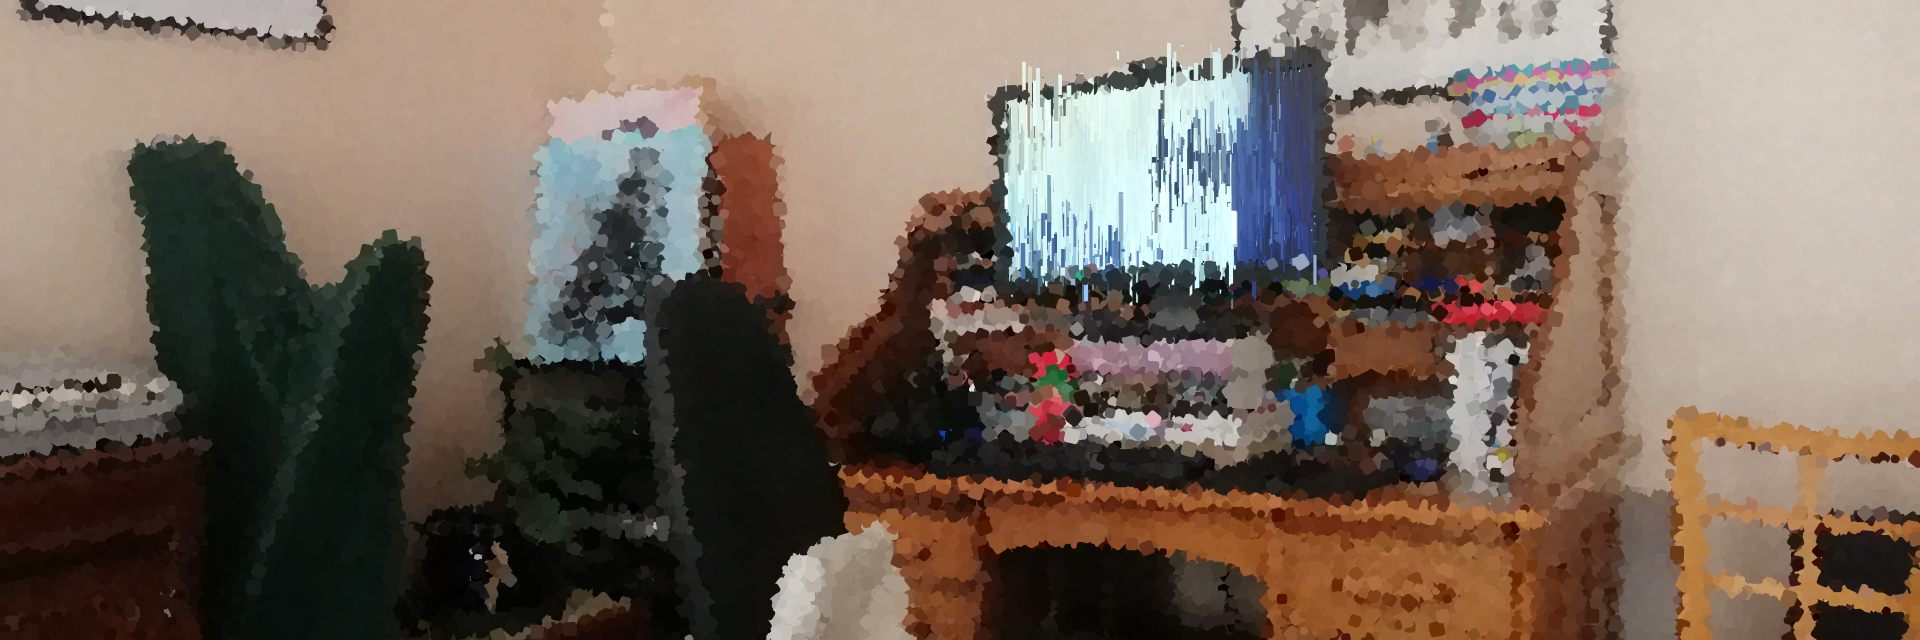
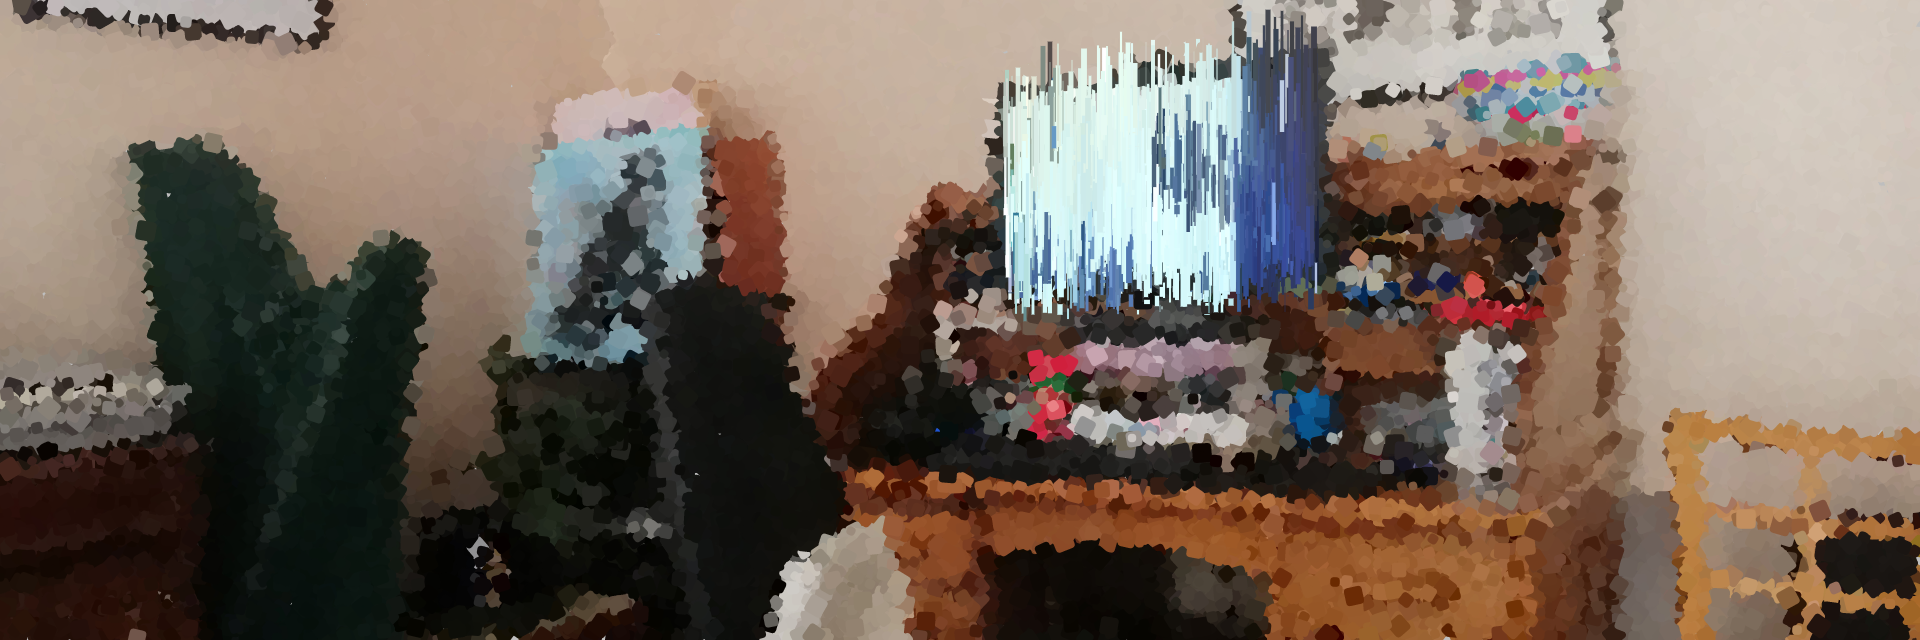
tweaking

diff --git a/sketch.js b/sketch.js
@@ -3,9 +3,9 @@ let maskImg=null;
 let renderCounter=0;
 
 // change these three lines as appropiate
-let sourceFile = "input_2.jpg";
-let maskFile   = "mask_2.png";
-let outputFile = "output_2.png";
+let sourceFile = "input_1.jpg";
+let maskFile   = "mask_1.png";
+let outputFile = "output_1.png";
 
 function preload() {
   sourceImg = loadImage(sourceFile);
@@ -26,31 +26,32 @@ function setup () {
 }
 
 function draw () {
-  for(let i=0;i<14000;i++) {
+  for(let i=0;i<8000;i++) {
     let x = floor(random(sourceImg.width));
     let y = floor(random(sourceImg.height));
     let pix = sourceImg.get(x, y);
     let mask = maskImg.get(x, y);
-    if(mask[0] < 128) {
+    if(mask[0] < 128 &&renderCounter < 7) {
       push();
       stroke(pix);
       fill(pix);
-      strokeWeight(7);
+      strokeWeight(8);
       strokeJoin(ROUND);
-      let pointSize = random(8);
+      let pointSize = random(12);
       translate (x, y);
       rotate(random(360));
       rect(0, 0, pointSize, pointSize);
       pop();
     }
-    else {
+    else if (mask[0] > 128){
       push();
       stroke(pix);
       strokeCap(SQUARE);
       fill(pix);
-      strokeWeight(random(5));
-      let pointSize = random(-50, 50);
-      line(x, y, x, y+pointSize);
+      strokeWeight(random(6));
+      let pointSize = random(-10, 10);
+      let pointDrift = random(-60, 60);
+      line(x, y + pointDrift, x, y + 40 + pointSize);
       pop();
     }
   }

diff --git a/README.md b/README.md
@@ -1,5 +1,5 @@
 ## Creative Coding 2: Custom Pixel
 
-Stress themed experiment.
+Stress continuum.
 
-The image of my computer came out looking much more aggressive than I intended (likely due to it being a screen rather than a window), so that means we get an experiment on a stress based theme because I kinda liked how it looked. Current potential stress sources: Work, the outside world, the online world, people. Maybe do one where the outside of the image is the stressful thing and a book or something is the calmer bit? The area that isn't the stressed bit is meant to be fairly soft, and the bit that is stressed is meant to sort of spill out into the background - I might have to figure out how to do layers to really make that work. Image 2 will also have to be changed to something else stressful.
+Just some tweaking to the design. I've chosen rotated rounded squares for the background to give it a soft but out of focus feeling, like you can't quite level your eyes on it, and have made use of the render counter to get the stress section to really spill out of it's bounds. I'm not totally sold on this, to be honest. The stress bit needs to be sharper, somehow, and I feel like there should be more to it. Currently it just feels a bit...bland.
